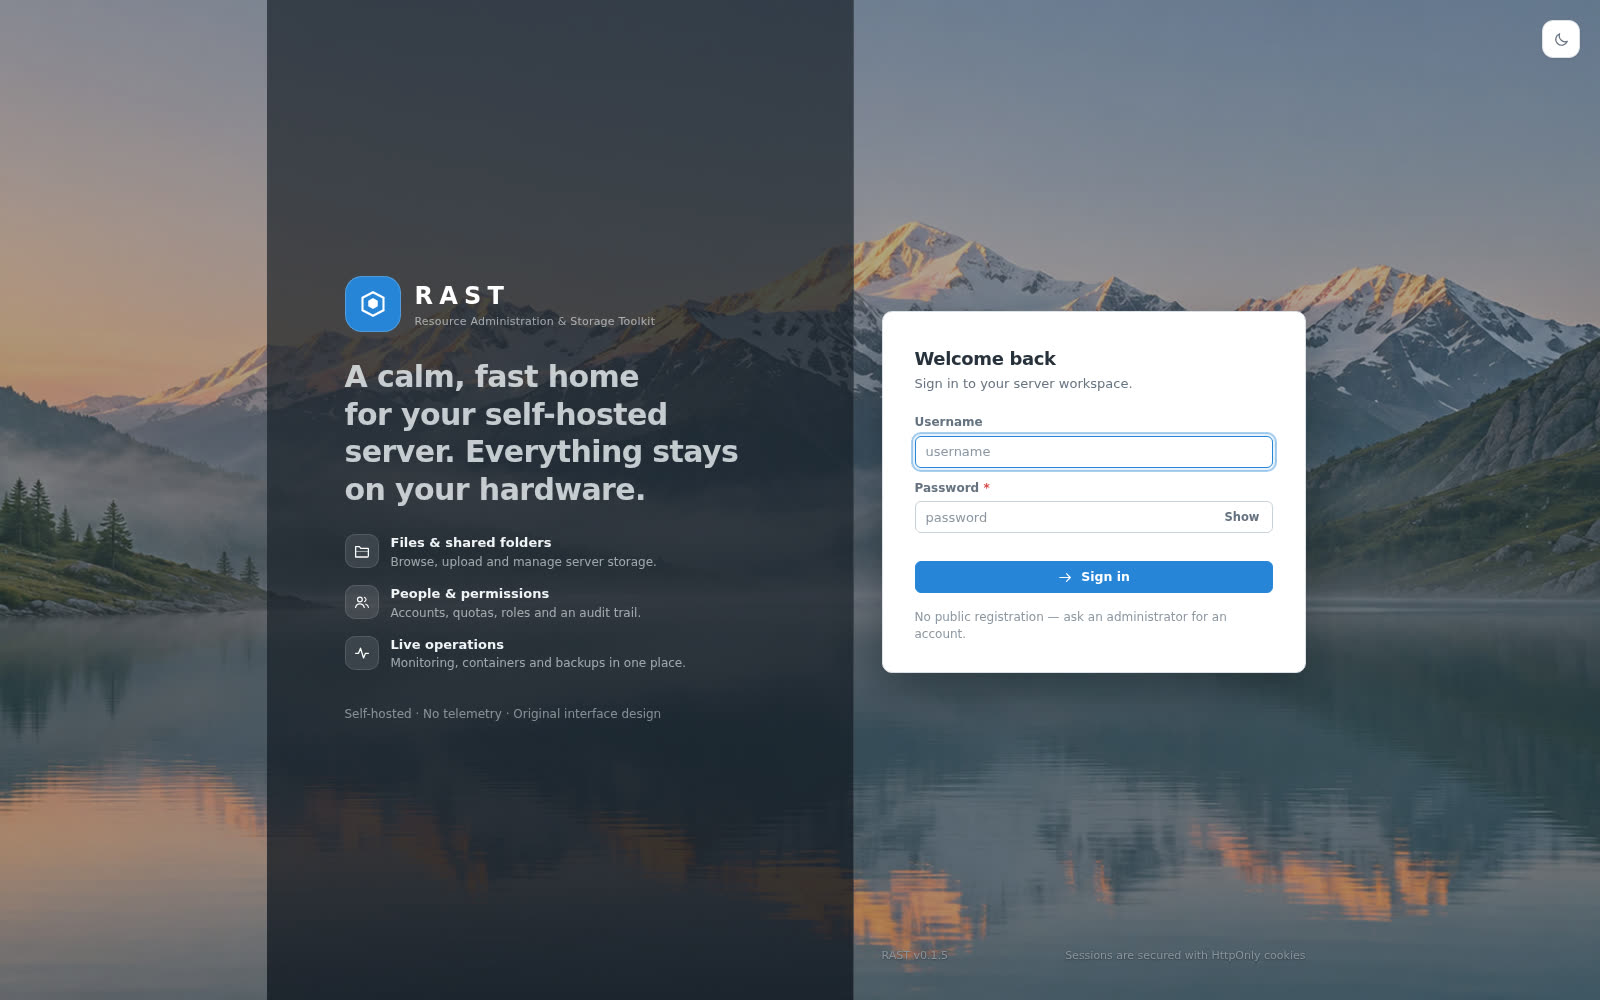
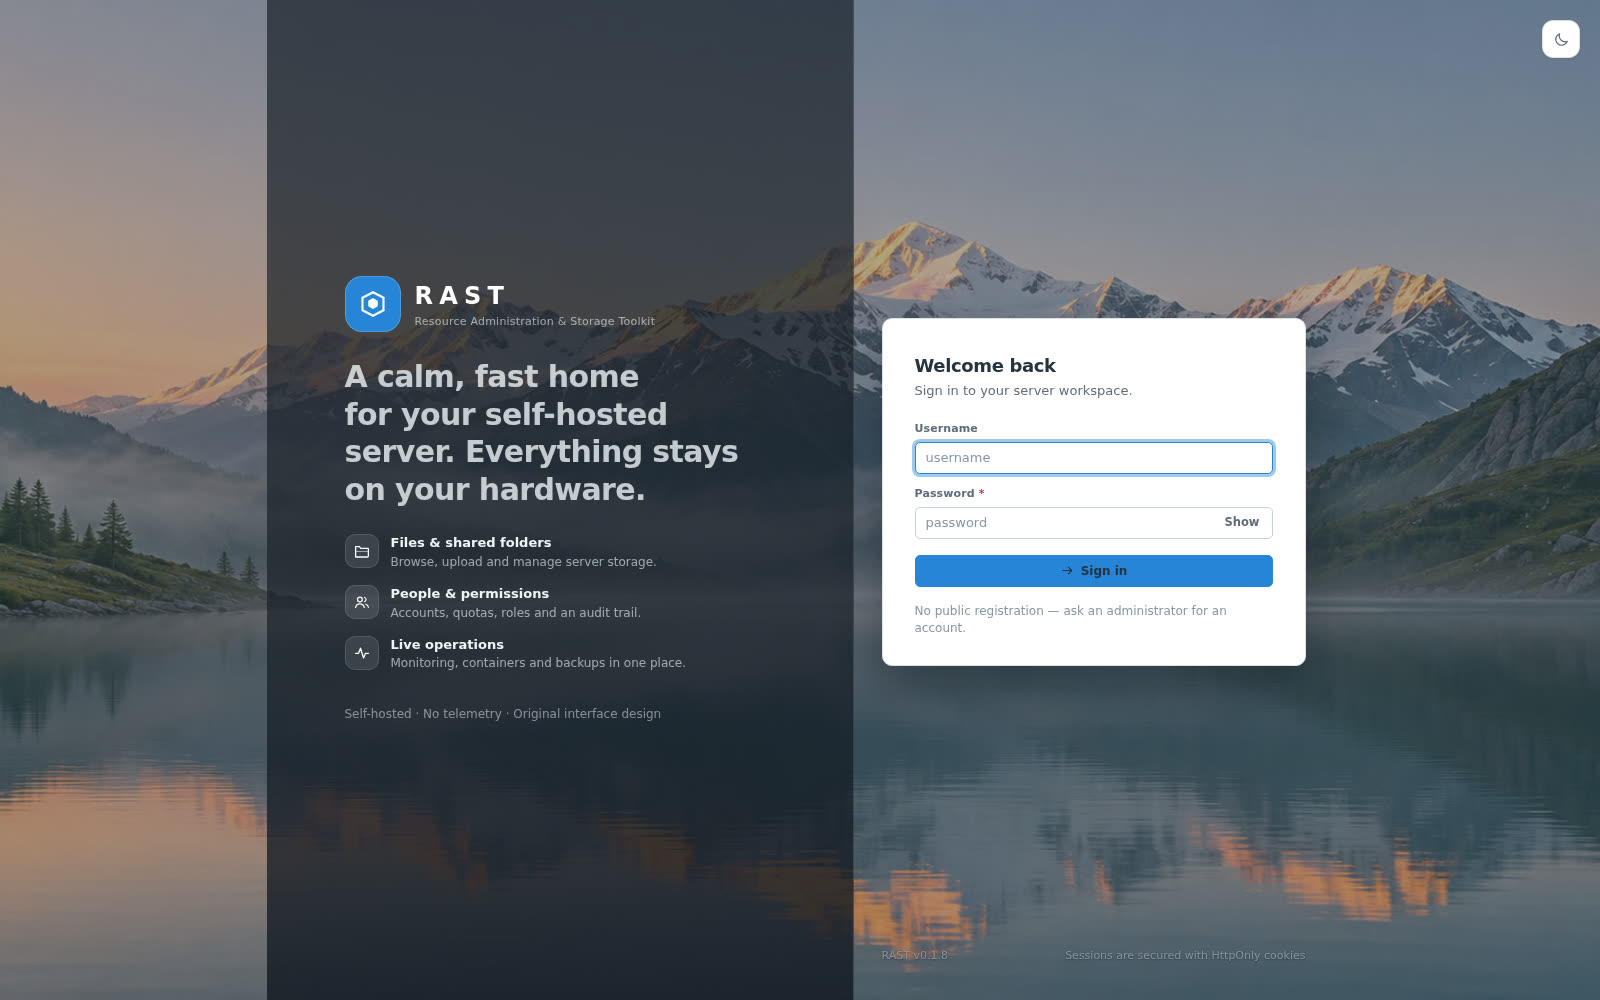
docs: refresh screenshots from the live v0.1.8 deployment and record measurements
- Screenshots recaptured on https://desktop.lufria.tech (v0.1.8): login, light
  desktop, Appearance (ten presets), Personalize, dark desktop, File Station
  (single-row toolbar, readable footer), Resource Monitor, mobile.
- Verified-deployment section updated for v0.1.8: 22.8 MiB idle RSS / 0.23% CPU
  fresh start, 12.5 MiB / 0.23% with a live tab and two windows, below the
  v0.1.5 baseline; 73/73 production smoke, 272 Rust tests, 64/64 installer suite,
  73 live Playwright checks (UI + application/container); honest note about the
  v0.1.6 tagged-commit license-check failure and green follow-up.
- Status line 0.1.8.

Changed region(s): [[0.5625, 0.31, 0.8125, 0.682]]

diff --git a/README.md b/README.md
@@ -22,7 +22,7 @@ RAST bundles the day-to-day server admin tools into one web desktop:
 [![License: MIT](https://img.shields.io/badge/license-MIT-blue.svg)](LICENSE)
 ![Platforms](https://img.shields.io/badge/platforms-linux%20x86__64%20%7C%20aarch64-informational)
 
-> **Status:** v0.1.6 — first public release series (2026-11-11). APIs and data
+> **Status:** v0.1.8 — first public release series (2026-11-11). APIs and data
 > formats may still change before v1.0; see [CHANGELOG.md](CHANGELOG.md) for the
 > exact feature set and known limitations.
 
@@ -38,31 +38,44 @@ RAST bundles the day-to-day server admin tools into one web desktop:
 
 ## Verified deployment
 
-RAST 0.1.5 is deployed and publicly reachable at
+RAST 0.1.8 is deployed and publicly reachable at
 <https://desktop.lufria.tech> behind Cloudflare Tunnel + nginx. Measured on the
-reference host (Ubuntu 26.04, x86_64, 12 cores / 30 GiB RAM) after a clean
-restart, 60-second idle window with the resource monitor sampling every 5 s:
+reference host (Ubuntu, x86_64, 12 cores / 30 GiB RAM) after a clean restart,
+60-second idle window with the shared sampler running at ~5 s:
 
 | Process | CPU (idle) | RSS |
 | --- | --- | --- |
-| `rast.service` (web + jobs + monitor + SQLite) | 0.17% | 30.2 MiB |
-| `rast-worker.service` (Docker operations) | 0.00% | 9.2 MiB |
-| **Total RAST** | **0.17%** | **39.3 MiB** |
+| `rast.service` (web + jobs + monitor + realtime bus + SQLite) | 0.23% | 11.8 MiB |
+| `rast-worker.service` (Docker operations) | 0.05% | 11.0 MiB |
+| **Total RAST** | **0.23%** | **22.8 MiB** |
 
-That is well below the project budget of 100 MiB idle RAM (reverse proxy,
-Cloudflare Tunnel and Docker are excluded). Anonymous memory is ~22 MiB for the
-web service; the rest is file-backed pages that the kernel can reclaim. After
-long activity (large uploads, backups, container stats) the allocator keeps some
-resident memory, so an uptime-long measurement can read higher (e.g. 65 MiB)
-without any leak.
+With one browser tab connected and File Station + Resource Monitor open (live
+SSE + filesystem watcher active), `rast.service` measured 0.23% CPU / 12.5 MiB
+RSS over the same window. That is below the project budget of 100 MiB idle RAM
+and below the previous v0.1.5 baseline (39.3 MiB) even with live updates: the
+realtime layer adds one authenticated SSE connection per tab and a single
+bounded filesystem watcher/Docker reconciler, not per-menu polling loops.
+Anonymous memory is ~2–3 MiB after a fresh start; the remainder is file-backed
+pages the kernel can reclaim. After long activity (large uploads, backups,
+container stats) allocator retention can read ~30–65 MiB without any leak.
 
-Verification on the live deployment: **61/61 end-to-end smoke checks** (auth,
-CSRF, two-user isolation, files, quota, trash, monitoring, SSE, backups, logs,
-Docker worker, and the new appearance tests: upload byte-exactness, cross-user
-404, independent per-user settings, delete fallback), **224 automated Rust
-tests** (209 unit/integration + 15 HTTP end-to-end), a clean-systemd-container
-installer suite, and Playwright checks of the live UI in light/dark themes at
-1600×1000 and 390×844 with zero console errors.
+Verification on the live deployment: **73/73 end-to-end smoke checks** (auth,
+CSRF, two-user isolation, files/quota/trash, monitoring, SSE, backups, logs,
+Docker worker, ten accent presets, and realtime: hello/ping/ids plus
+file.changed/file.quota/audit pushed over the public proxy), **272 automated
+Rust tests** (254 unit/integration + 18 HTTP end-to-end), a
+**64/64 clean-systemd-container installer suite**, and **73 live Playwright
+checks** — 62 UI checks (all ten accents in light and dark, save states
+clean/dirty/saving/saved/failure, theme/wallpaper changes with windows and a
+dialog open, System mode following the OS, cross-session appearance sync and
+conflict handling, offline/reconnect reconciliation, external filesystem
+changes, activity-log and backup live updates, user isolation, desktop and
+390×844 mobile) plus 11 application checks (deploy a managed app, capture its
+live log stream in the browser, stop/start its container outside RAST and see
+both states update without refresh, then remove it). CI is green on `main`
+(the tagged v0.1.6 commit itself had a stale third-party-license inventory
+check that was fixed in the immediately following commit; release artifacts
+verified separately; v0.1.7/v0.1.8 release runs are fully green).
 
 ## Quick start (installed server)
 
